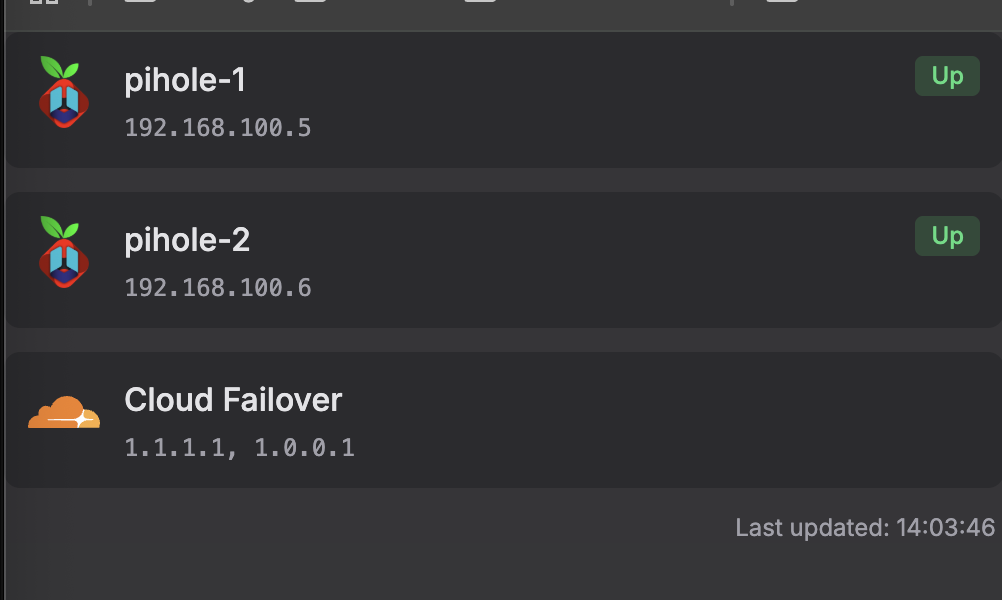
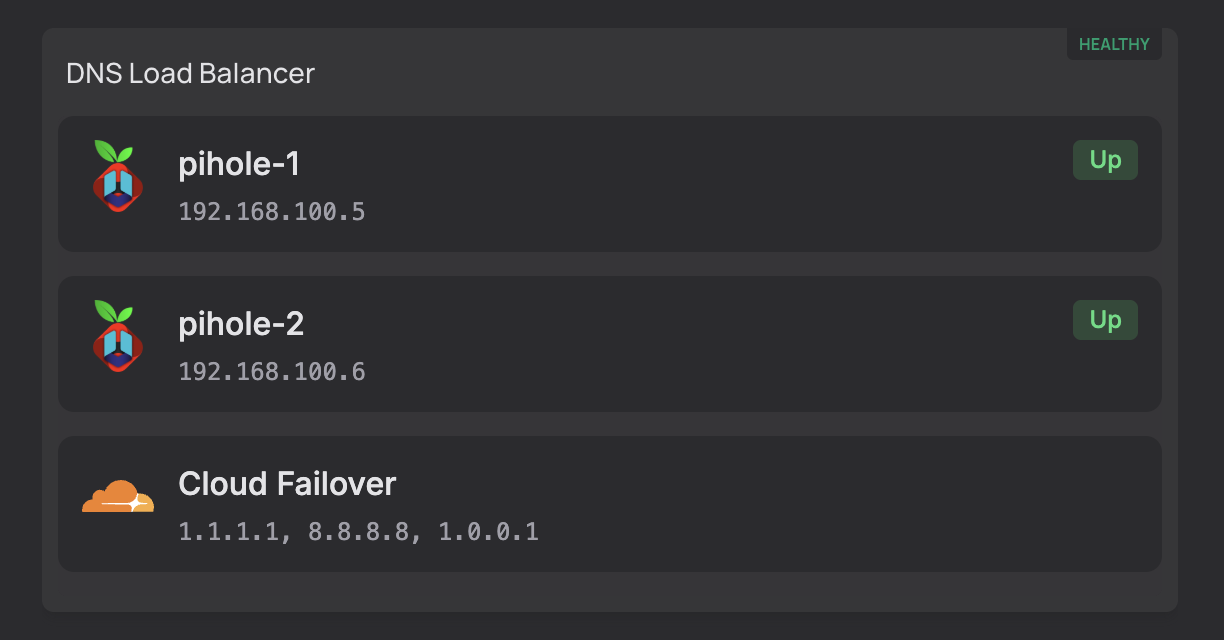
update readme

diff --git a/README.md b/README.md
@@ -69,15 +69,19 @@ The display layout is controlled by `config.json`. The default is baked into the
 
 ```json
 {
-  "layout": "auto"
+  "layout": "auto",
+  "primaryServerIcon": "https://cdn.jsdelivr.net/gh/homarr-labs/dashboard-icons/webp/pi-hole-unbound.webp",
+  "secondaryServerIcon": "https://cdn.jsdelivr.net/gh/homarr-labs/dashboard-icons/webp/pi-hole-unbound.webp",
+  "failoverServerIcon": "https://raw.githubusercontent.com/homarr-labs/dashboard-icons/main/svg/cloudflare.svg"
 }
 ```
 
-| Value | Behaviour |
-|---|---|
-| `auto` | Detail view when the widget is ≥ 834px wide, compact otherwise |
-| `detail` | Always 3-column with query/response stats |
-| `compact` | Always single-column, stats hidden |
+| Key | Default | Description |
+|---|---|---|
+| `layout` | `auto` | `auto` — detail when ≥ 834px wide, compact otherwise; `detail` — always 3-column with stats; `compact` — always single-column, stats hidden |
+| `primaryServerIcon` | Pi-hole Unbound icon | URL of the icon shown on the first primary server card |
+| `secondaryServerIcon` | Pi-hole Unbound icon | URL of the icon shown on the second primary server card |
+| `failoverServerIcon` | Cloudflare icon | URL of the icon shown on the cloud failover card |
 
 Changes to `config.json` take effect on the next browser refresh — no container restart needed.
 
